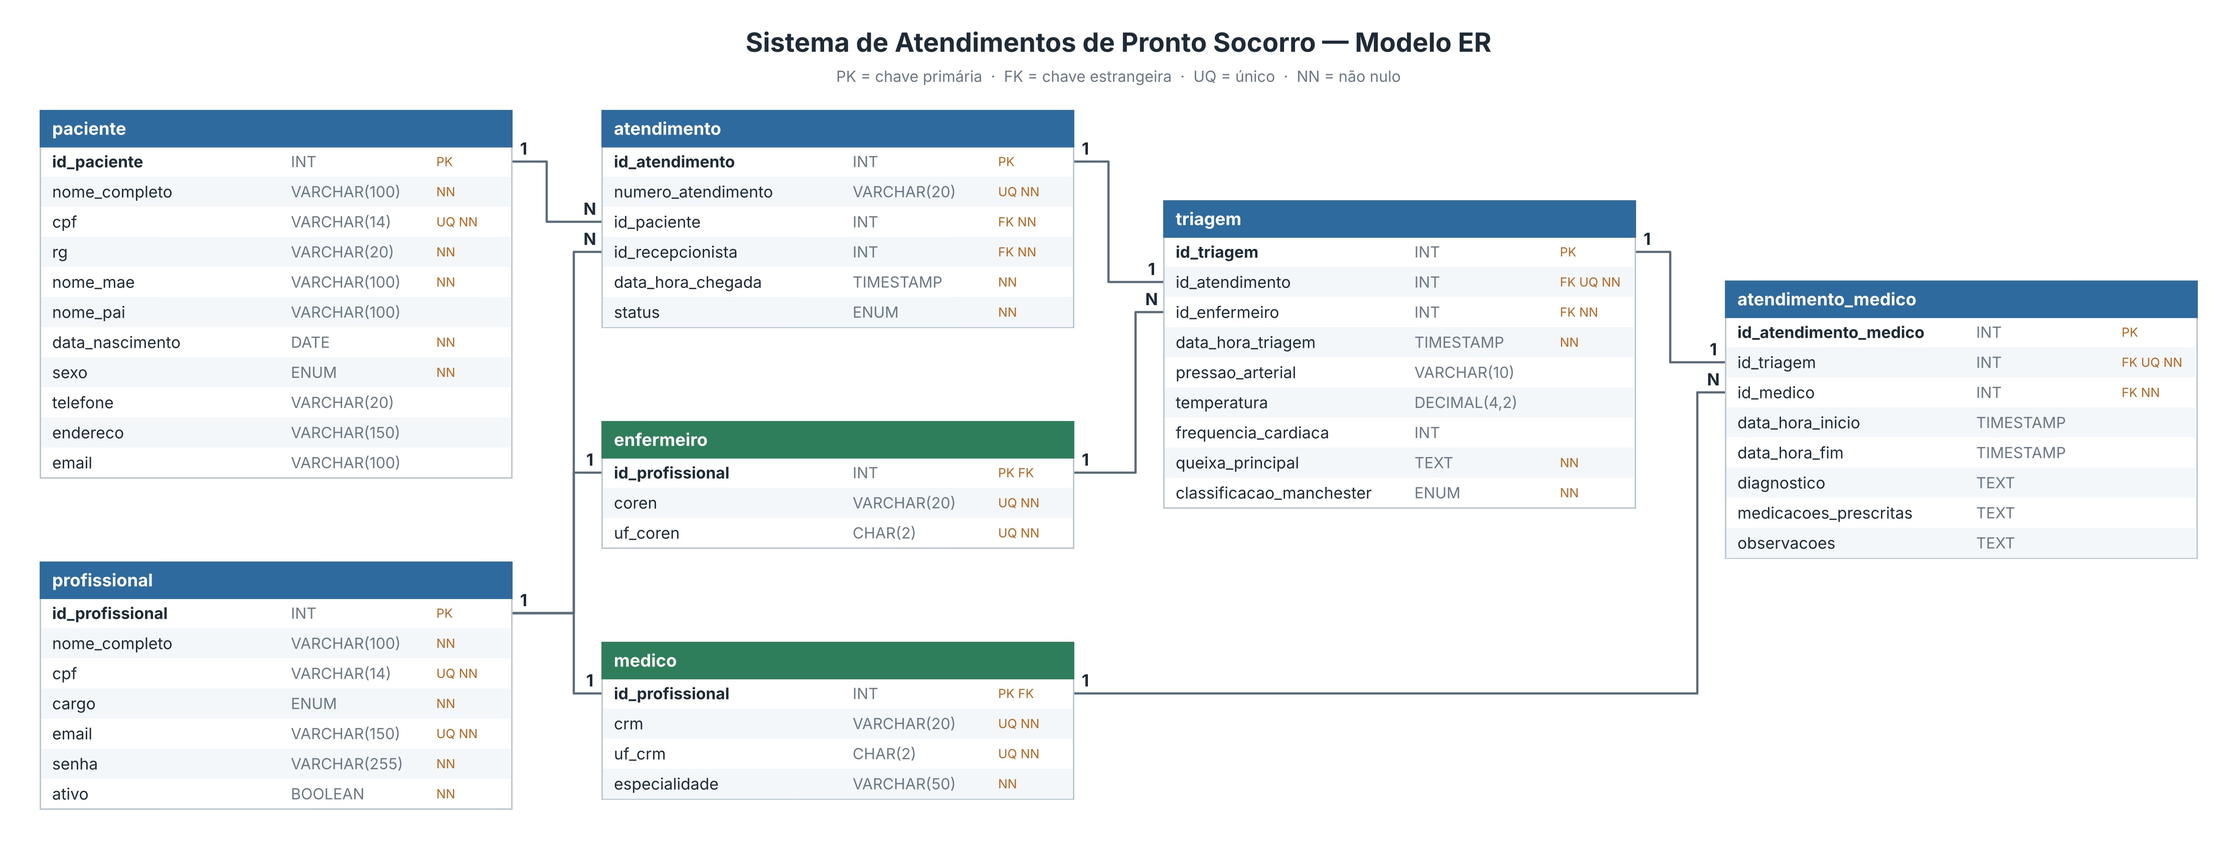
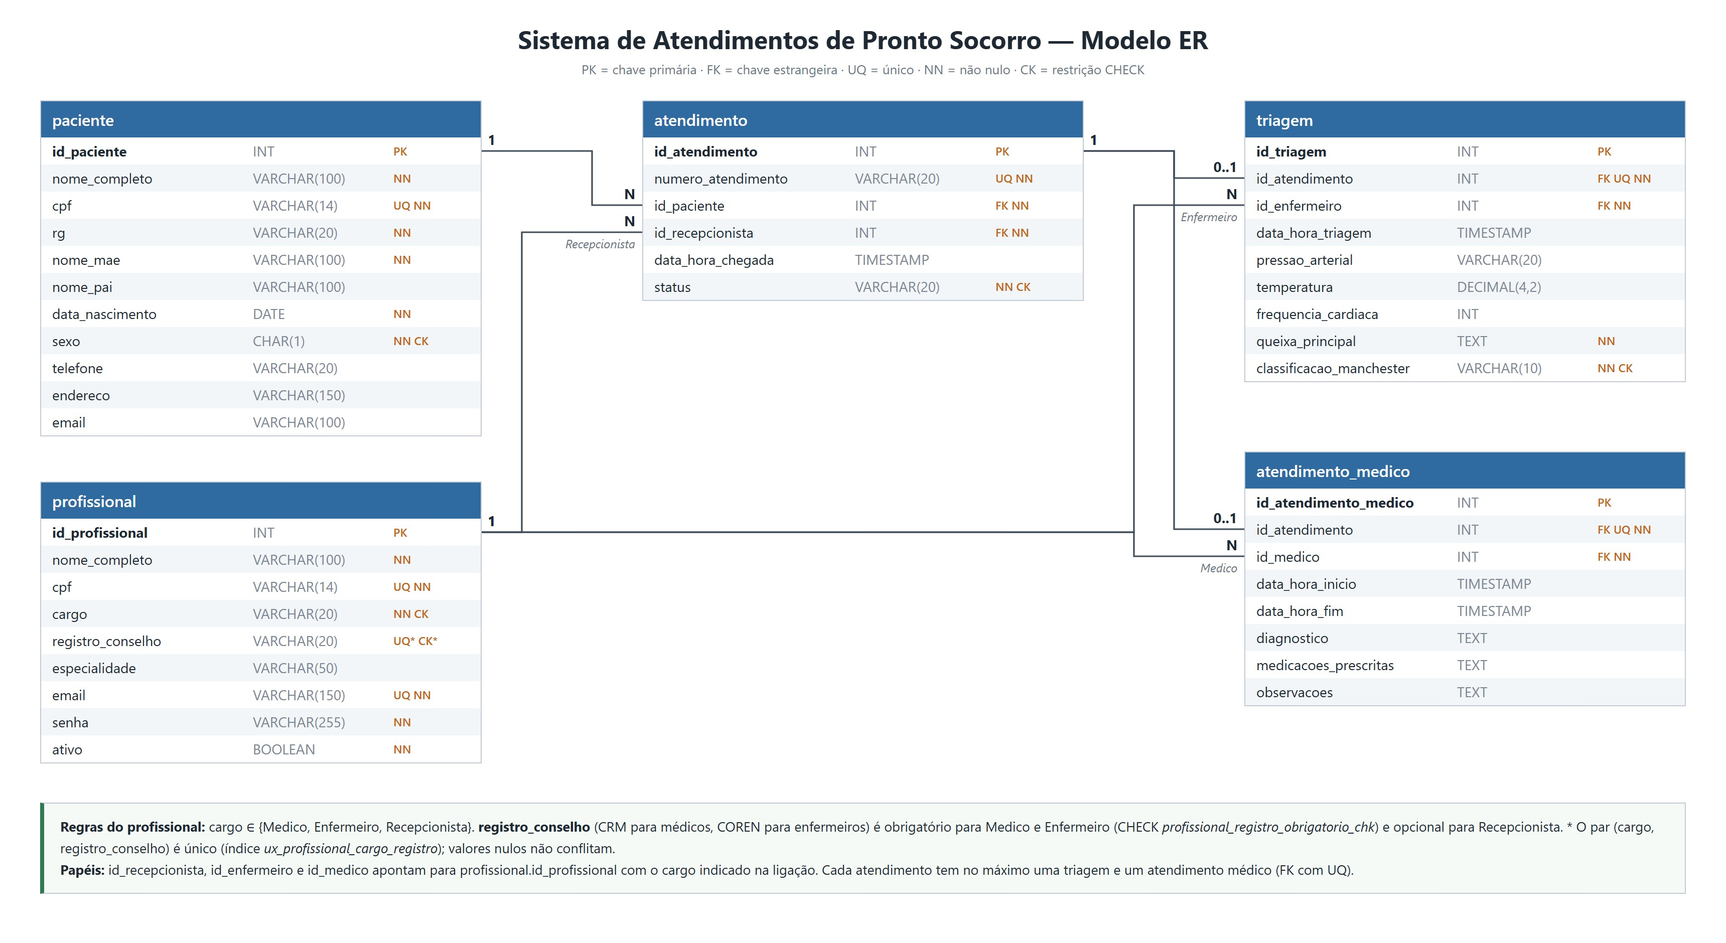
Torna obrigatório e único o registro no conselho (CRM/COREN)
- schema.sql: CHECK exigindo registro para Medico/Enfermeiro e índice
  único em (cargo, registro_conselho), aplicados de forma idempotente.
- setup.js: antes de aplicar o schema, lista profissionais sem registro
  ou com registro repetido e para, sem alterar dados.
- repository.js: valida o registro no cadastro/atualização e grava com
  trim e em maiúsculas; routes.js devolve mensagens amigáveis (400/409).
- cadastro: campo obrigatório para Médico e Enfermeiro, opcional para
  Recepcionista.
- Testes novos para a regra (API, banco, setup e tela); testes antigos
  ajustados para usar registros únicos.
- README com a regra e MER.jpg refeito com as 5 tabelas reais.

diff --git a/tests/integracao/autenticacao.test.js b/tests/integracao/autenticacao.test.js
@@ -2,7 +2,7 @@
 import test from 'node:test';
 import assert from 'node:assert/strict';
 import {
-  SEM_BANCO, USUARIOS, ambienteDoTeste, cpfAleatorio, emailAleatorio, esperarStatus
+  SEM_BANCO, USUARIOS, ambienteDoTeste, cpfAleatorio, emailAleatorio, esperarStatus, registroAleatorio
 } from '../helpers/ambiente.js';
 
 const opcoes = { skip: SEM_BANCO };
@@ -10,9 +10,63 @@ const opcoes = { skip: SEM_BANCO };
 function cadastro(extra = {}) {
   return {
     nome_completo: 'Profissional de Teste', cpf: cpfAleatorio(), cargo: 'Enfermeiro',
-    registro_conselho: 'COREN99999', email: emailAleatorio(), senha: 'SenhaForte123', ...extra
+    registro_conselho: registroAleatorio(), email: emailAleatorio(), senha: 'SenhaForte123', ...extra
   };
 }
+
+// ---------- Registro no conselho (CRM/COREN) ----------
+
+test('Médico sem registro no conselho é recusado com 400', opcoes, async (t) => {
+  const amb = await ambienteDoTeste(t);
+  const semRegistro = cadastro({ cargo: 'Medico' });
+  delete semRegistro.registro_conselho;
+  for (const dados of [semRegistro, cadastro({ cargo: 'Medico', registro_conselho: null }), cadastro({ cargo: 'Medico', registro_conselho: '' })]) {
+    const resposta = esperarStatus(await amb.cliente().post('/auth/cadastro', dados), 400, 'Médico sem registro');
+    assert.equal(resposta.erro, 'Informe o registro no conselho (CRM/COREN) para este cargo');
+  }
+});
+
+test('Enfermeiro com registro só de espaços é recusado com 400', opcoes, async (t) => {
+  const amb = await ambienteDoTeste(t);
+  const resposta = esperarStatus(await amb.cliente().post('/auth/cadastro', cadastro({ registro_conselho: '    ' })), 400);
+  assert.equal(resposta.erro, 'Informe o registro no conselho (CRM/COREN) para este cargo');
+});
+
+test('Recepcionista pode se cadastrar sem registro no conselho', opcoes, async (t) => {
+  const amb = await ambienteDoTeste(t);
+  const semRegistro = cadastro({ cargo: 'Recepcionista' });
+  delete semRegistro.registro_conselho;
+  const resposta = esperarStatus(await amb.cliente().post('/auth/cadastro', semRegistro), 201, 'recepcionista sem registro');
+  assert.equal(resposta.dados.registro_conselho, null);
+  // Vazio vira NULL, então duas recepcionistas sem registro não conflitam.
+  esperarStatus(await amb.cliente().post('/auth/cadastro', cadastro({ cargo: 'Recepcionista', registro_conselho: ' ' })), 201, 'recepcionista com registro vazio');
+});
+
+test('mesmo cargo e mesmo registro no conselho devolve 409 (também com espaços e minúsculas)', opcoes, async (t) => {
+  const amb = await ambienteDoTeste(t);
+  const registro = registroAleatorio('CRM');
+  esperarStatus(await amb.cliente().post('/auth/cadastro', cadastro({ cargo: 'Medico', registro_conselho: registro })), 201);
+  for (const repetido of [registro, ` ${registro.toLowerCase()} `]) {
+    const resposta = esperarStatus(await amb.cliente().post('/auth/cadastro', cadastro({ cargo: 'Medico', registro_conselho: repetido })), 409, `registro repetido "${repetido}"`);
+    assert.equal(resposta.erro, 'Este registro no conselho (CRM/COREN) já está cadastrado para este cargo');
+  }
+  esperarStatus(await amb.cliente().post('/auth/cadastro', cadastro({ cargo: 'Enfermeiro', registro_conselho: 'COREN12345' })), 409, 'COREN da demonstração');
+});
+
+test('o mesmo registro com cargos diferentes é aceito', opcoes, async (t) => {
+  const amb = await ambienteDoTeste(t);
+  const registro = registroAleatorio('REG');
+  esperarStatus(await amb.cliente().post('/auth/cadastro', cadastro({ cargo: 'Medico', registro_conselho: registro })), 201, 'como Médico');
+  esperarStatus(await amb.cliente().post('/auth/cadastro', cadastro({ cargo: 'Enfermeiro', registro_conselho: registro })), 201, 'como Enfermeiro');
+});
+
+test('registro no conselho é gravado sem espaços e em maiúsculas', opcoes, async (t) => {
+  const amb = await ambienteDoTeste(t);
+  const resposta = esperarStatus(await amb.cliente().post('/auth/cadastro', cadastro({ cargo: 'Medico', registro_conselho: ' crm777 ' })), 201);
+  assert.equal(resposta.dados.registro_conselho, 'CRM777');
+  const { rows } = await amb.query('SELECT registro_conselho FROM profissional WHERE id_profissional = $1', [resposta.dados.id_profissional]);
+  assert.equal(rows[0].registro_conselho, 'CRM777');
+});
 
 // ---------- Cadastro ----------
 

diff --git a/tests/integracao/banco.test.js b/tests/integracao/banco.test.js
@@ -39,14 +39,43 @@ test('CPF de paciente e de profissional é único no banco', opcoes, async (t) =
   const amb = await ambienteDoTeste(t);
   await esperarErroSql(amb.query(`INSERT INTO paciente (nome_completo, cpf, rg, nome_mae, data_nascimento, sexo)
     VALUES ('Outro', '123.456.789-00', '1', 'M', '2000-01-01', 'M')`), '23505', 'paciente com CPF repetido');
-  await esperarErroSql(amb.query(`INSERT INTO profissional (nome_completo, cpf, cargo, email, senha)
-    VALUES ('Outro', '111.111.111-11', 'Medico', 'outro@x.com', 'x')`), '23505', 'profissional com CPF repetido');
-  await esperarErroSql(amb.query(`INSERT INTO profissional (nome_completo, cpf, cargo, email, senha)
-    VALUES ('Outro', '999.111.111-11', 'Medico', 'medico@hospital.com', 'x')`), '23505', 'profissional com email repetido');
+  await esperarErroSql(amb.query(`INSERT INTO profissional (nome_completo, cpf, cargo, registro_conselho, email, senha)
+    VALUES ('Outro', '111.111.111-11', 'Medico', 'CRM00001', 'outro@x.com', 'x')`), '23505', 'profissional com CPF repetido');
+  await esperarErroSql(amb.query(`INSERT INTO profissional (nome_completo, cpf, cargo, registro_conselho, email, senha)
+    VALUES ('Outro', '999.111.111-11', 'Medico', 'CRM00002', 'medico@hospital.com', 'x')`), '23505', 'profissional com email repetido');
   await esperarErroSql(amb.query(`INSERT INTO atendimento (numero_atendimento, id_paciente, id_recepcionista)
     VALUES ('AT0001', 1, 1)`), '23505', 'número de atendimento repetido');
   await esperarErroSql(amb.query(`INSERT INTO triagem (id_atendimento, id_enfermeiro, queixa_principal, classificacao_manchester)
     VALUES (1, 2, 'x', 'VERDE')`), '23505', 'segunda triagem no mesmo atendimento');
+});
+
+test('registro no conselho: obrigatório para Médico/Enfermeiro e único por cargo no banco', opcoes, async (t) => {
+  const amb = await ambienteDoTeste(t);
+  const inserir = (cpf, cargo, registro, email) => amb.query(`INSERT INTO profissional
+    (nome_completo, cpf, cargo, registro_conselho, email, senha) VALUES ('Outro', $1, $2, $3, $4, 'x')`,
+  [cpf, cargo, registro, email]);
+  await esperarErroSql(inserir('900.000.000-01', 'Medico', null, 'a1@x.com'), '23514', 'Médico sem registro');
+  await esperarErroSql(inserir('900.000.000-02', 'Enfermeiro', '   ', 'a2@x.com'), '23514', 'Enfermeiro com registro só de espaços');
+  await esperarErroSql(amb.query('UPDATE profissional SET registro_conselho = NULL WHERE id_profissional = 3'), '23514', 'apagar o CRM do médico');
+  await esperarErroSql(amb.query("UPDATE profissional SET cargo = 'Medico' WHERE id_profissional = 1"), '23514', 'recepcionista sem registro virando médico');
+  await esperarErroSql(inserir('900.000.000-03', 'Medico', 'CRM54321', 'a3@x.com'), '23505', 'CRM repetido para Médico');
+  await inserir('900.000.000-04', 'Enfermeiro', 'CRM54321', 'a4@x.com'); // outro cargo: permitido
+  await inserir('900.000.000-05', 'Recepcionista', null, 'a5@x.com'); // NULLs não conflitam
+  await inserir('900.000.000-06', 'Recepcionista', null, 'a6@x.com');
+});
+
+test('npm run setup recusa banco antigo com Médico sem registro, sem alterar os dados', { ...opcoes, timeout: 60_000 }, async (t) => {
+  const esquema = await criarEsquema();
+  t.after(() => esquema.remover());
+  // Simula um banco criado antes da regra: sem a restrição e com um médico sem CRM.
+  await esquema.query('ALTER TABLE profissional DROP CONSTRAINT profissional_registro_obrigatorio_chk');
+  await esquema.query("UPDATE profissional SET registro_conselho = NULL WHERE id_profissional = 3");
+  const saida = await executar('scripts/setup.js', envDoBanco({ schema: esquema.schema }), { timeout: 30_000 });
+  assert.equal(saida.codigo, 1, `o setup deveria falhar.\n${saida.stdout}\n${saida.stderr}`);
+  assert.match(saida.stderr, /id 3 - Ricardo Oliveira \(Medico\)/, 'a mensagem deveria listar o médico sem registro');
+  assert.doesNotMatch(saida.stdout, /schema\.sql aplicado/, 'o schema.sql não deveria ter sido aplicado');
+  const { rows } = await esquema.query('SELECT registro_conselho FROM profissional WHERE id_profissional = 3');
+  assert.equal(rows[0].registro_conselho, null, 'o setup não pode alterar os dados sozinho');
 });
 
 test('ON DELETE RESTRICT: não apaga paciente nem profissional com atendimentos', opcoes, async (t) => {

diff --git a/scripts/setup.js b/scripts/setup.js
@@ -17,6 +17,44 @@ async function existe(arquivo) {
   try { await access(arquivo); return true; } catch { return false; }
 }
 
+// Antes de aplicar o schema.sql: Médico/Enfermeiro sem registro (ou com registro repetido)
+// fariam a nova regra do banco falhar. Mostra quem precisa ser corrigido; não altera dados.
+async function conferirRegistros(client) {
+  const { rows: [tabela] } = await client.query("SELECT to_regclass('profissional') AS existe");
+  if (!tabela.existe) return; // banco novo: nada a conferir
+  const semRegistro = await client.query(`
+    SELECT id_profissional, nome_completo, cargo FROM profissional
+     WHERE cargo <> 'Recepcionista' AND NULLIF(btrim(registro_conselho), '') IS NULL
+     ORDER BY id_profissional`);
+  const repetidos = await client.query(`
+    SELECT id_profissional, nome_completo, cargo, registro_conselho FROM profissional p
+     WHERE registro_conselho IS NOT NULL AND EXISTS (
+       SELECT 1 FROM profissional o WHERE o.cargo = p.cargo
+          AND o.registro_conselho = p.registro_conselho AND o.id_profissional <> p.id_profissional)
+     ORDER BY cargo, registro_conselho, id_profissional`);
+  if (!semRegistro.rowCount && !repetidos.rowCount) return;
+
+  const linhas = [];
+  if (semRegistro.rowCount) {
+    linhas.push('Profissionais com cargo Medico/Enfermeiro sem registro no conselho (CRM/COREN):');
+    for (const p of semRegistro.rows) linhas.push(`  id ${p.id_profissional} - ${p.nome_completo} (${p.cargo})`);
+  }
+  if (repetidos.rowCount) {
+    linhas.push('Profissionais com o mesmo registro no conselho para o mesmo cargo:');
+    for (const p of repetidos.rows) {
+      linhas.push(`  id ${p.id_profissional} - ${p.nome_completo} (${p.cargo}, registro ${p.registro_conselho})`);
+    }
+  }
+  linhas.push(
+    '',
+    'Corrija esses cadastros e rode "npm run setup" de novo. Exemplo (pgAdmin ou psql):',
+    "  UPDATE profissional SET registro_conselho = 'CRM12345' WHERE id_profissional = <id>;",
+    'Também é possível trocar o cargo para Recepcionista ou apagar o profissional, se ele não tiver atendimentos.',
+    'O setup não altera nem apaga esses dados sozinho.'
+  );
+  throw Object.assign(new Error(linhas.join('\n')), { amigavel: true });
+}
+
 async function main() {
   if (!(await existe(arquivoEnv))) {
     await copyFile(path.join(raiz, '.env.example'), arquivoEnv);
@@ -55,6 +93,7 @@ async function main() {
     const client = new pg.Client({ ...config, connectionTimeoutMillis: 5000 });
     await client.connect();
     try {
+      await conferirRegistros(client);
       for (const arquivo of ['schema.sql', 'insert.sql']) {
         const sql = await readFile(path.join(raiz, 'database', arquivo), 'utf8');
         await client.query(sql);

diff --git a/services/repository.js b/services/repository.js
@@ -164,6 +164,23 @@ function validarPessoa(data) {
   return Object.hasOwn(data, 'cpf') ? { ...data, cpf: normalizarCpf(data.cpf) } : data;
 }
 
+// Registro no conselho (CRM/COREN): gravado sem espaços nas pontas e em maiúsculas,
+// para " crm1" e "CRM1" serem o mesmo registro. Vazio vira NULL.
+const CARGOS_COM_REGISTRO = ['Medico', 'Enfermeiro'];
+const MSG_REGISTRO = 'Informe o registro no conselho (CRM/COREN) para este cargo';
+
+function normalizarRegistro(data) {
+  if (!Object.hasOwn(data, 'registro_conselho')) return data;
+  const valor = data.registro_conselho;
+  const texto = valor === undefined || valor === null ? '' : String(valor).trim().toUpperCase();
+  return { ...data, registro_conselho: texto || null };
+}
+
+// Confere a regra com os dados finais do profissional (cargo e registro).
+function exigirRegistro(cargo, registro) {
+  if (CARGOS_COM_REGISTRO.includes(cargo) && !registro) throw invalid(MSG_REGISTRO);
+}
+
 function selectedFields(config) {
   return [config.id, ...config.fields.filter((field) => field !== 'senha')];
 }
@@ -280,6 +297,8 @@ export class PostgresRepository {
     if (['pacientes', 'profissionais'].includes(entidade)) dados = validarPessoa(dados);
     if (entidade === 'profissionais') {
       if (typeof dados.email !== 'string') throw invalid('Email inválido');
+      dados = normalizarRegistro(dados);
+      exigirRegistro(dados.cargo, dados.registro_conselho);
       dados = { ...dados, senha: await hashPassword(dados.senha), email: dados.email.trim().toLowerCase() };
     }
     const fields = config.fields.filter((field) => Object.hasOwn(dados, field));
@@ -304,6 +323,14 @@ export class PostgresRepository {
     const config = ENTITIES[entidade];
     validate(config, dados);
     if (['pacientes', 'profissionais'].includes(entidade)) dados = validarPessoa(dados);
+    if (entidade === 'profissionais' &&
+        (Object.hasOwn(dados, 'cargo') || Object.hasOwn(dados, 'registro_conselho'))) {
+      dados = normalizarRegistro(dados);
+      const atual = await this.buscarPorId('profissionais', id);
+      if (!atual) return null;
+      exigirRegistro(dados.cargo ?? atual.cargo,
+        Object.hasOwn(dados, 'registro_conselho') ? dados.registro_conselho : atual.registro_conselho);
+    }
     if (entidade === 'profissionais' && Object.hasOwn(dados, 'senha')) {
       dados = { ...dados, senha: await hashPassword(dados.senha) };
     }
@@ -513,4 +540,4 @@ export class PostgresRepository {
   }
 }
 
-export { ENTITIES };
+export { ENTITIES, MSG_REGISTRO };

diff --git a/services/routes.js b/services/routes.js
@@ -1,7 +1,7 @@
 import express from 'express';
 import path from 'node:path';
 import { fileURLToPath } from 'node:url';
-import { ENTITIES } from './repository.js';
+import { ENTITIES, MSG_REGISTRO } from './repository.js';
 import { createAuth, HOME_BY_ROLE } from './auth.js';
 
 const webPath = path.resolve(path.dirname(fileURLToPath(import.meta.url)), '../web');
@@ -10,6 +10,13 @@ function sendError(res, error) {
   if (error.code === 'FORBIDDEN') return res.status(403).json({ erro: error.message });
   if (error.message === 'Registro não encontrado' || error.message === 'Atendimento não encontrado') {
     return res.status(404).json({ erro: error.message });
+  }
+  // Regras do registro no conselho (CRM/COREN), com mensagem própria.
+  if (error.code === '23505' && error.constraint === 'ux_profissional_cargo_registro') {
+    return res.status(409).json({ erro: 'Este registro no conselho (CRM/COREN) já está cadastrado para este cargo' });
+  }
+  if (error.code === '23514' && error.constraint === 'profissional_registro_obrigatorio_chk') {
+    return res.status(400).json({ erro: MSG_REGISTRO });
   }
   if (['23505', '23503'].includes(error.code)) {
     return res.status(409).json({ erro: 'O registro viola uma restrição de unicidade ou relacionamento' });

diff --git a/web/auth/auth.js b/web/auth/auth.js
@@ -2,6 +2,17 @@ const form = document.querySelector('form');
 const message = document.getElementById('mensagem');
 const registering = form.id === 'cadastro-form';
 
+// Cadastro: o registro no conselho (CRM/COREN) é obrigatório só para Médico e Enfermeiro.
+const cargo = document.getElementById('cargo');
+const registro = document.getElementById('registro_conselho');
+function atualizarRegistro() {
+  if (registering) registro.required = ['Medico', 'Enfermeiro'].includes(cargo.value);
+}
+if (registering) {
+  cargo.addEventListener('change', atualizarRegistro);
+  atualizarRegistro();
+}
+
 form.addEventListener('submit', async (event) => {
   event.preventDefault();
   const data = Object.fromEntries(new FormData(form));
@@ -24,6 +35,7 @@ form.addEventListener('submit', async (event) => {
     if (!response.ok) throw new Error(payload.erro || 'Não foi possível concluir a operação.');
     if (registering) {
       form.reset();
+      atualizarRegistro();
       message.className = 'auth-message success';
       message.textContent = 'Cadastro concluído. Use o link "Entrar" abaixo para acessar o sistema.';
     } else {

diff --git a/tests/integracao/codificacao.test.js b/tests/integracao/codificacao.test.js
@@ -2,7 +2,7 @@
 import test from 'node:test';
 import assert from 'node:assert/strict';
 import {
-  SEM_BANCO, ambienteDoTeste, atender, cpfAleatorio, criarAtendimento, emailAleatorio, esperarStatus, triar
+  SEM_BANCO, ambienteDoTeste, atender, cpfAleatorio, criarAtendimento, emailAleatorio, esperarStatus, registroAleatorio, triar
 } from '../helpers/ambiente.js';
 
 const opcoes = { skip: SEM_BANCO };
@@ -66,7 +66,8 @@ test('cadastro e login com nome e senha acentuados', opcoes, async (t) => {
   const email = emailAleatorio();
   const senha = 'Coração—çã😀1';
   const criado = esperarStatus(await amb.cliente().post('/auth/cadastro', {
-    nome_completo: 'Conceição Araújo — Enfermagem', cpf: cpfAleatorio(), cargo: 'Enfermeiro', email, senha
+    nome_completo: 'Conceição Araújo — Enfermagem', cpf: cpfAleatorio(), cargo: 'Enfermeiro',
+    registro_conselho: registroAleatorio(), email, senha
   }), 201).dados;
   assert.equal(criado.nome_completo, 'Conceição Araújo — Enfermagem');
   const login = esperarStatus(await amb.cliente().post('/auth/login', { email, senha }), 200, 'login com senha acentuada');

diff --git a/tests/front/estatico.test.js b/tests/front/estatico.test.js
@@ -279,3 +279,13 @@ test('tela do médico: "Medicações prescritas" é obrigatório para dar alta',
   assert.match(campo[0], /\srequired\b/, 'o campo de medicações precisa do atributo required');
   assert.match(html, /<label[^>]*for\s*=\s*["']md-medicacoes["'][^>]*>[^<]*\*/, 'o rótulo das medicações deveria indicar campo obrigatório (*)');
 });
+
+test('cadastro: registro no conselho obrigatório só para Médico e Enfermeiro', () => {
+  const html = lerWeb('auth/cadastro.html');
+  assert.doesNotMatch(html, /se aplicável/, 'o texto do campo deveria dizer quando o registro é exigido');
+  assert.match(html, /CRM para médicos, COREN para\s+enfermeiros/);
+  const js = lerWeb('auth/auth.js');
+  assert.match(js, /cargo\.addEventListener\(\s*'change'/, 'auth.js deveria reagir à troca de cargo');
+  assert.match(js, /registro\.required\s*=\s*\['Medico', 'Enfermeiro'\]\.includes\(cargo\.value\)/,
+    'o campo deveria ficar required apenas para Médico e Enfermeiro');
+});

diff --git a/web/auth/cadastro.html b/web/auth/cadastro.html
@@ -27,8 +27,9 @@
             <option value="Enfermeiro">Enfermeiro</option>
             <option value="Medico">Médico</option>
           </select></div>
-        <div class="field"><label for="registro_conselho">Registro no conselho (CRM / COREN, se aplicável)</label><input
-            id="registro_conselho" name="registro_conselho" maxlength="20"></div>
+        <div class="field"><label for="registro_conselho">Registro no conselho (CRM para médicos, COREN para
+            enfermeiros; não se aplica à recepção)</label><input id="registro_conselho" name="registro_conselho"
+            maxlength="20"></div>
         <div class="field"><label for="especialidade">Especialidade (opcional)</label><input id="especialidade"
             name="especialidade" maxlength="50"></div>
         <div class="field"><label for="email">E-mail</label><input id="email" name="email" type="email"

diff --git a/tests/database.test.js b/tests/database.test.js
@@ -49,8 +49,9 @@ test('PostgreSQL: cadastro, login, permissões e fluxo completo por cargo', {
     await request('/auth/login', 'POST', { email: 'recepcao@hospital.com', senha: 'errada' }, 401);
     const registration = {
       nome_completo: 'Profissional Teste', cpf: '777.777.777-77', cargo: 'Medico',
-      email: 'TESTE@example.test', senha: 'senha-apenas-de-teste', ativo: false
+      registro_conselho: 'CRM77777', email: 'TESTE@example.test', senha: 'senha-apenas-de-teste', ativo: false
     };
+    await request('/auth/cadastro', 'POST', { ...registration, registro_conselho: '' }, 400);
     await request('/auth/cadastro', 'POST', { ...registration, senha: 'curta' }, 400);
     await request('/auth/cadastro', 'POST', { ...registration, cargo: 'Admin' }, 400);
     const registered = await request('/auth/cadastro', 'POST', registration, 201);

diff --git a/tests/helpers/ambiente.js b/tests/helpers/ambiente.js
@@ -208,6 +208,11 @@ export function emailAleatorio() {
   return `teste.${randomUUID().slice(0, 8)}@exemplo.test`;
 }
 
+// Registro no conselho único por chamada (o par cargo + registro não pode se repetir).
+export function registroAleatorio(prefixo = 'COREN') {
+  return `${prefixo}${randomUUID().slice(0, 8).toUpperCase()}`;
+}
+
 export function dadosPaciente(extra = {}) {
   return {
     nome: 'Paciente de Teste', cpf: cpfAleatorio(), rg: '12.345.678-9', mae: 'Mãe de Teste',

diff --git a/README.md b/README.md
@@ -33,6 +33,8 @@ npm start
 
 O `npm run setup` cria o banco, as tabelas e alguns dados de exemplo. Pode rodar de novo sem problema, ele não duplica nada.
 
+No banco, Médico e Enfermeiro precisam ter o registro no conselho (CRM ou COREN). O mesmo registro não pode se repetir dentro do mesmo cargo, e ele é gravado sem espaços e em maiúsculas. A Recepção não precisa de registro.
+
 Agora é só abrir <http://127.0.0.1:3000> no navegador.
 
 ## Usuários para teste
@@ -51,6 +53,7 @@ Também dá para criar uma conta nova pela tela de login.
 - **Senha do PostgreSQL recusada:** confira `DB_USER` e `DB_PASSWORD` no `.env`.
 - **Banco desligado ou em outra porta:** veja se o serviço do PostgreSQL está rodando e se o `DB_PORT` está certo.
 - **Banco ou tabelas não existem:** rode `npm run setup`.
+- **Setup avisa que há Médico/Enfermeiro sem registro no conselho:** preencha o CRM/COREN dos profissionais listados e rode `npm run setup` de novo.
 - **PowerShell diz que a execução de scripts está desabilitada:** use `npm.cmd` no lugar de `npm`, ou rode pelo Prompt de Comando.
 
 ## Testes
